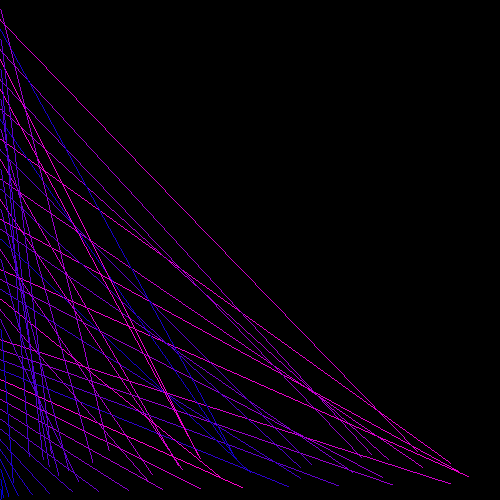
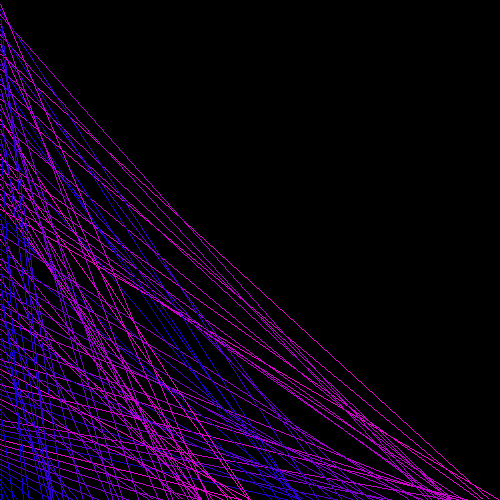
test

Changed region(s): [[0.0, 0.03, 1.0, 1.0]]

diff --git a/base_c/main.c b/base_c/main.c
@@ -16,8 +16,8 @@ int yer(int y){
   // 4 cos2x siny = 1
   //siny = 1/4cos2x
   double a = (.25 * cos(y*3 * 180 / 3.141592653589 ) );
-  int z = (int) asin(a);
-  return (y+z);
+  y = (int) asin(a);
+  return y;
 }
 
 int main() {
@@ -93,10 +93,10 @@ int main() {
       y = yer(z) % YRES;
       c.red = (x+y) % 255;
       draw_line(xcor, ycor, x,y,s,c);
-      ycor+=10;
+      ycor+=5;
       z++;
     }
-    xcor+=10;
+    xcor+=5;
     c.green = (x+y) % 255;
   }
   save_extension(s, "cool.png");
